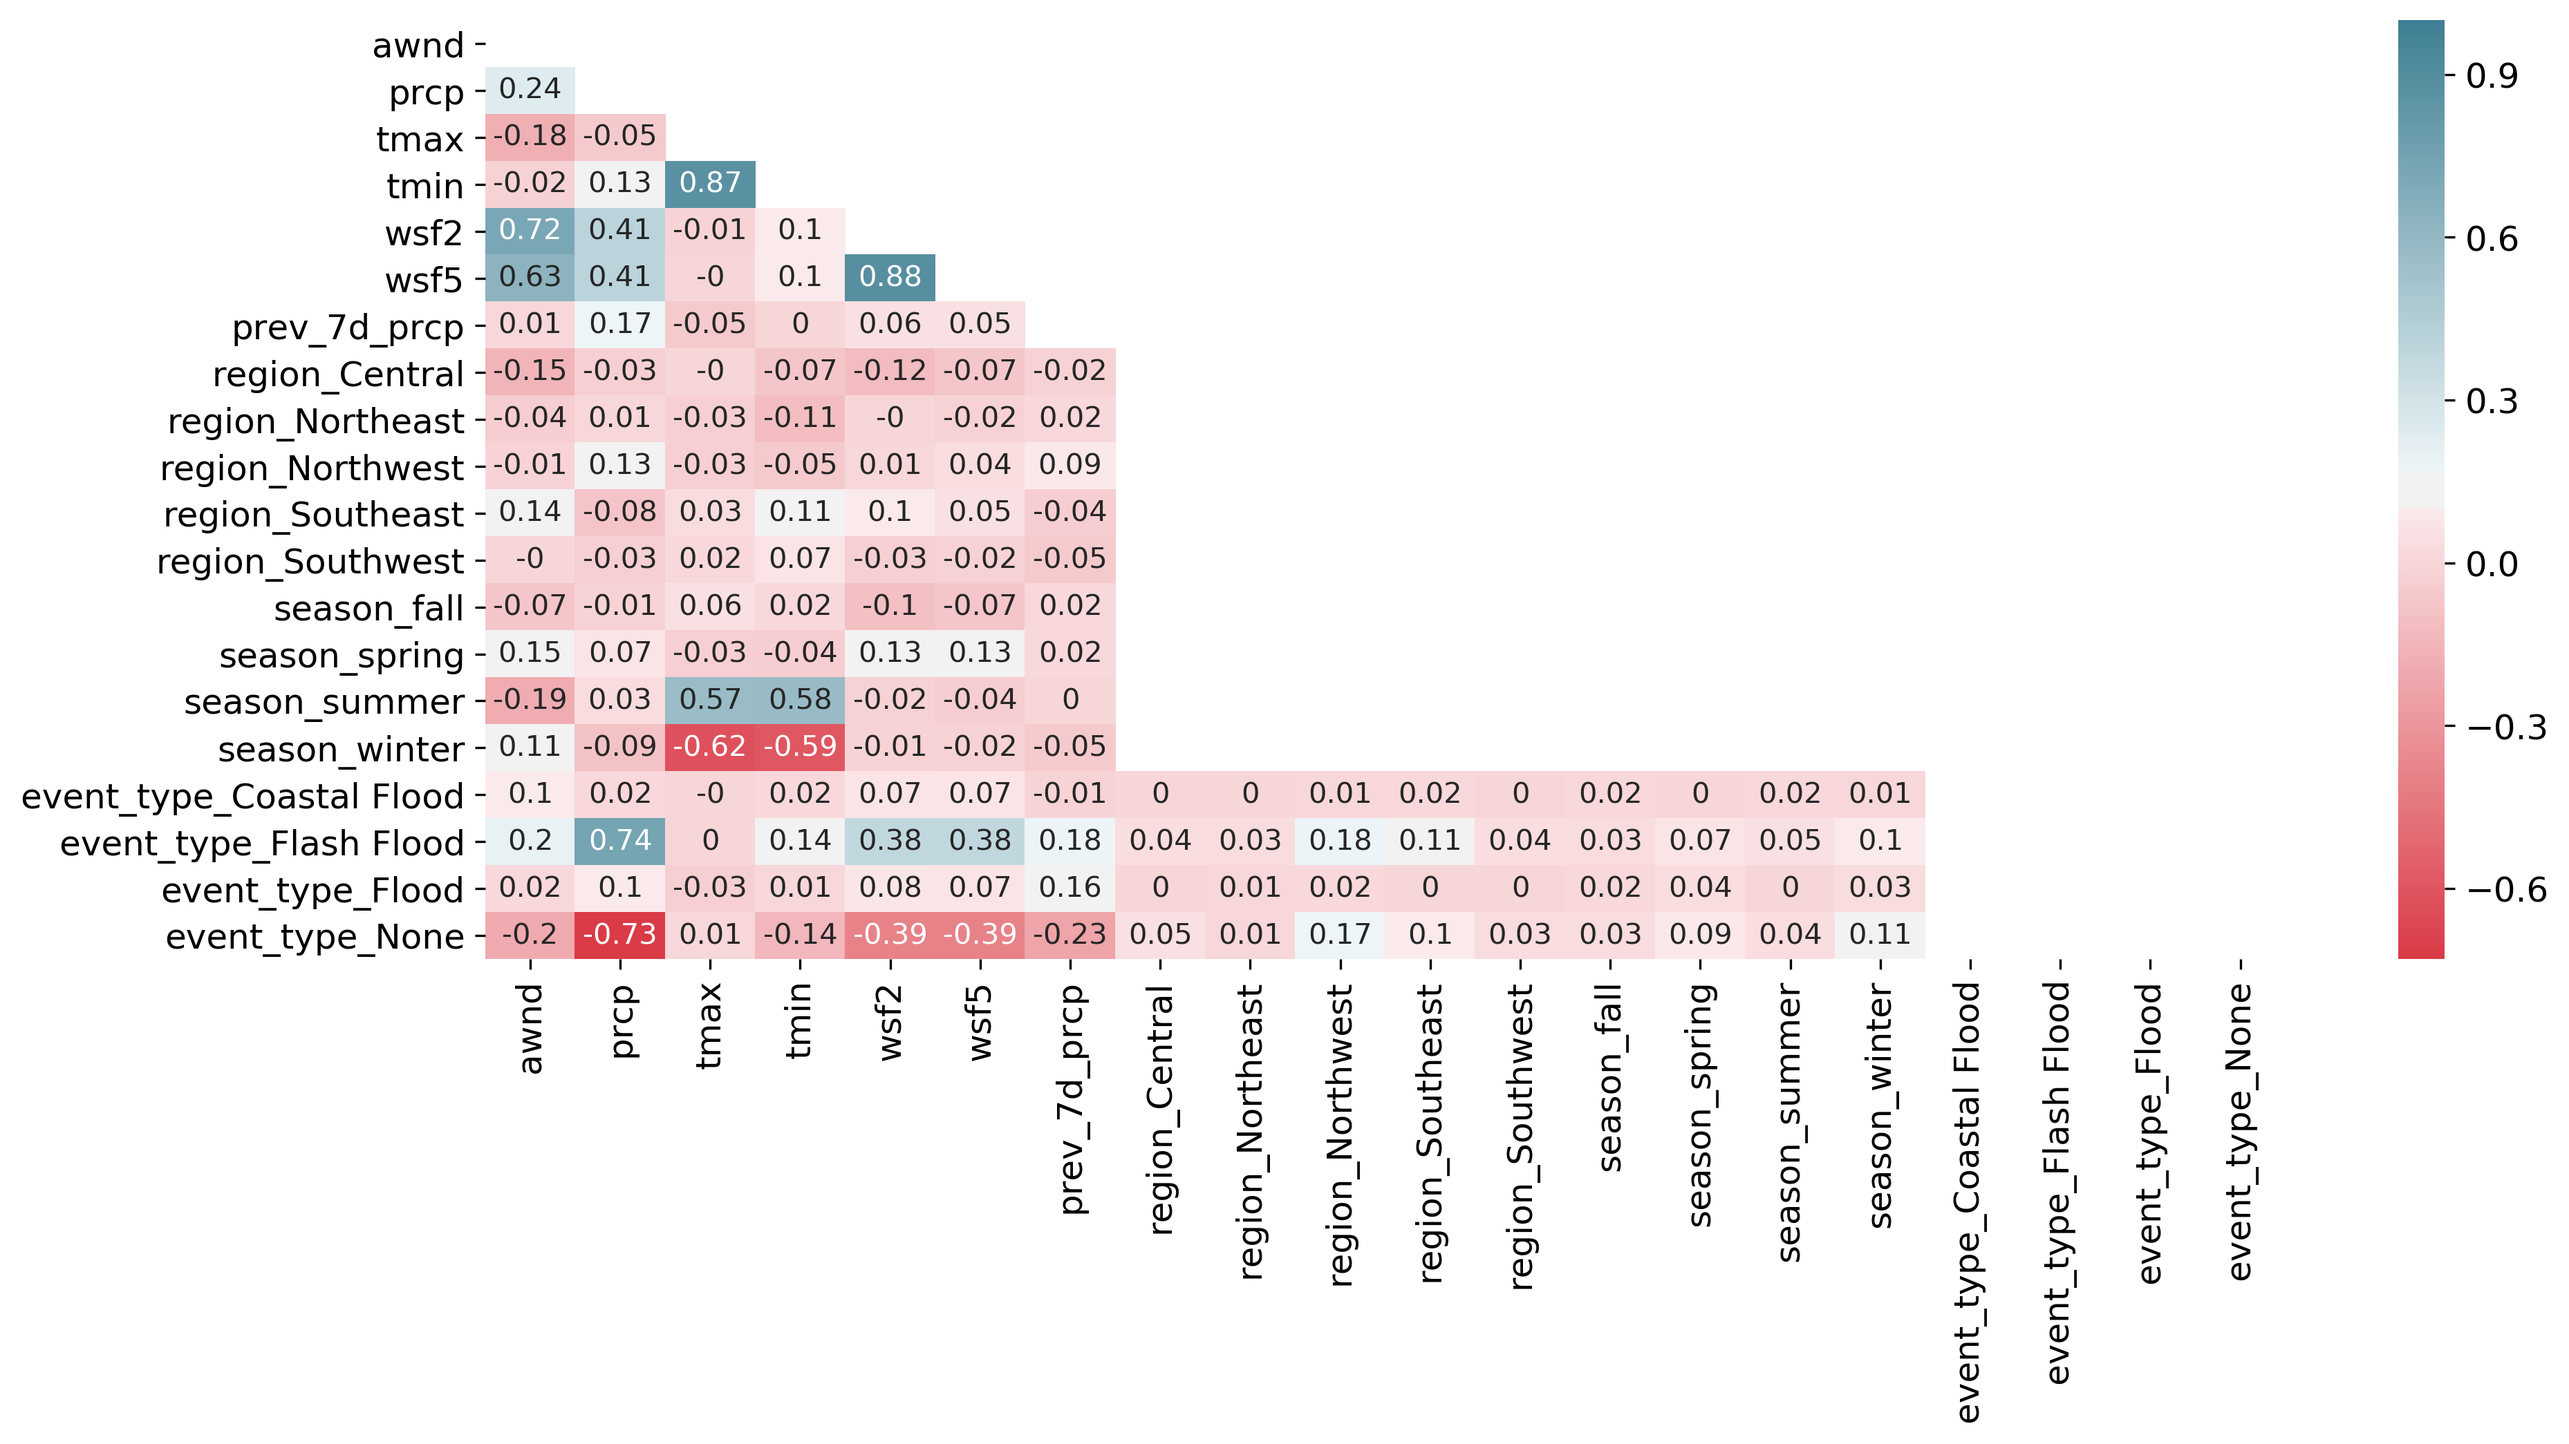
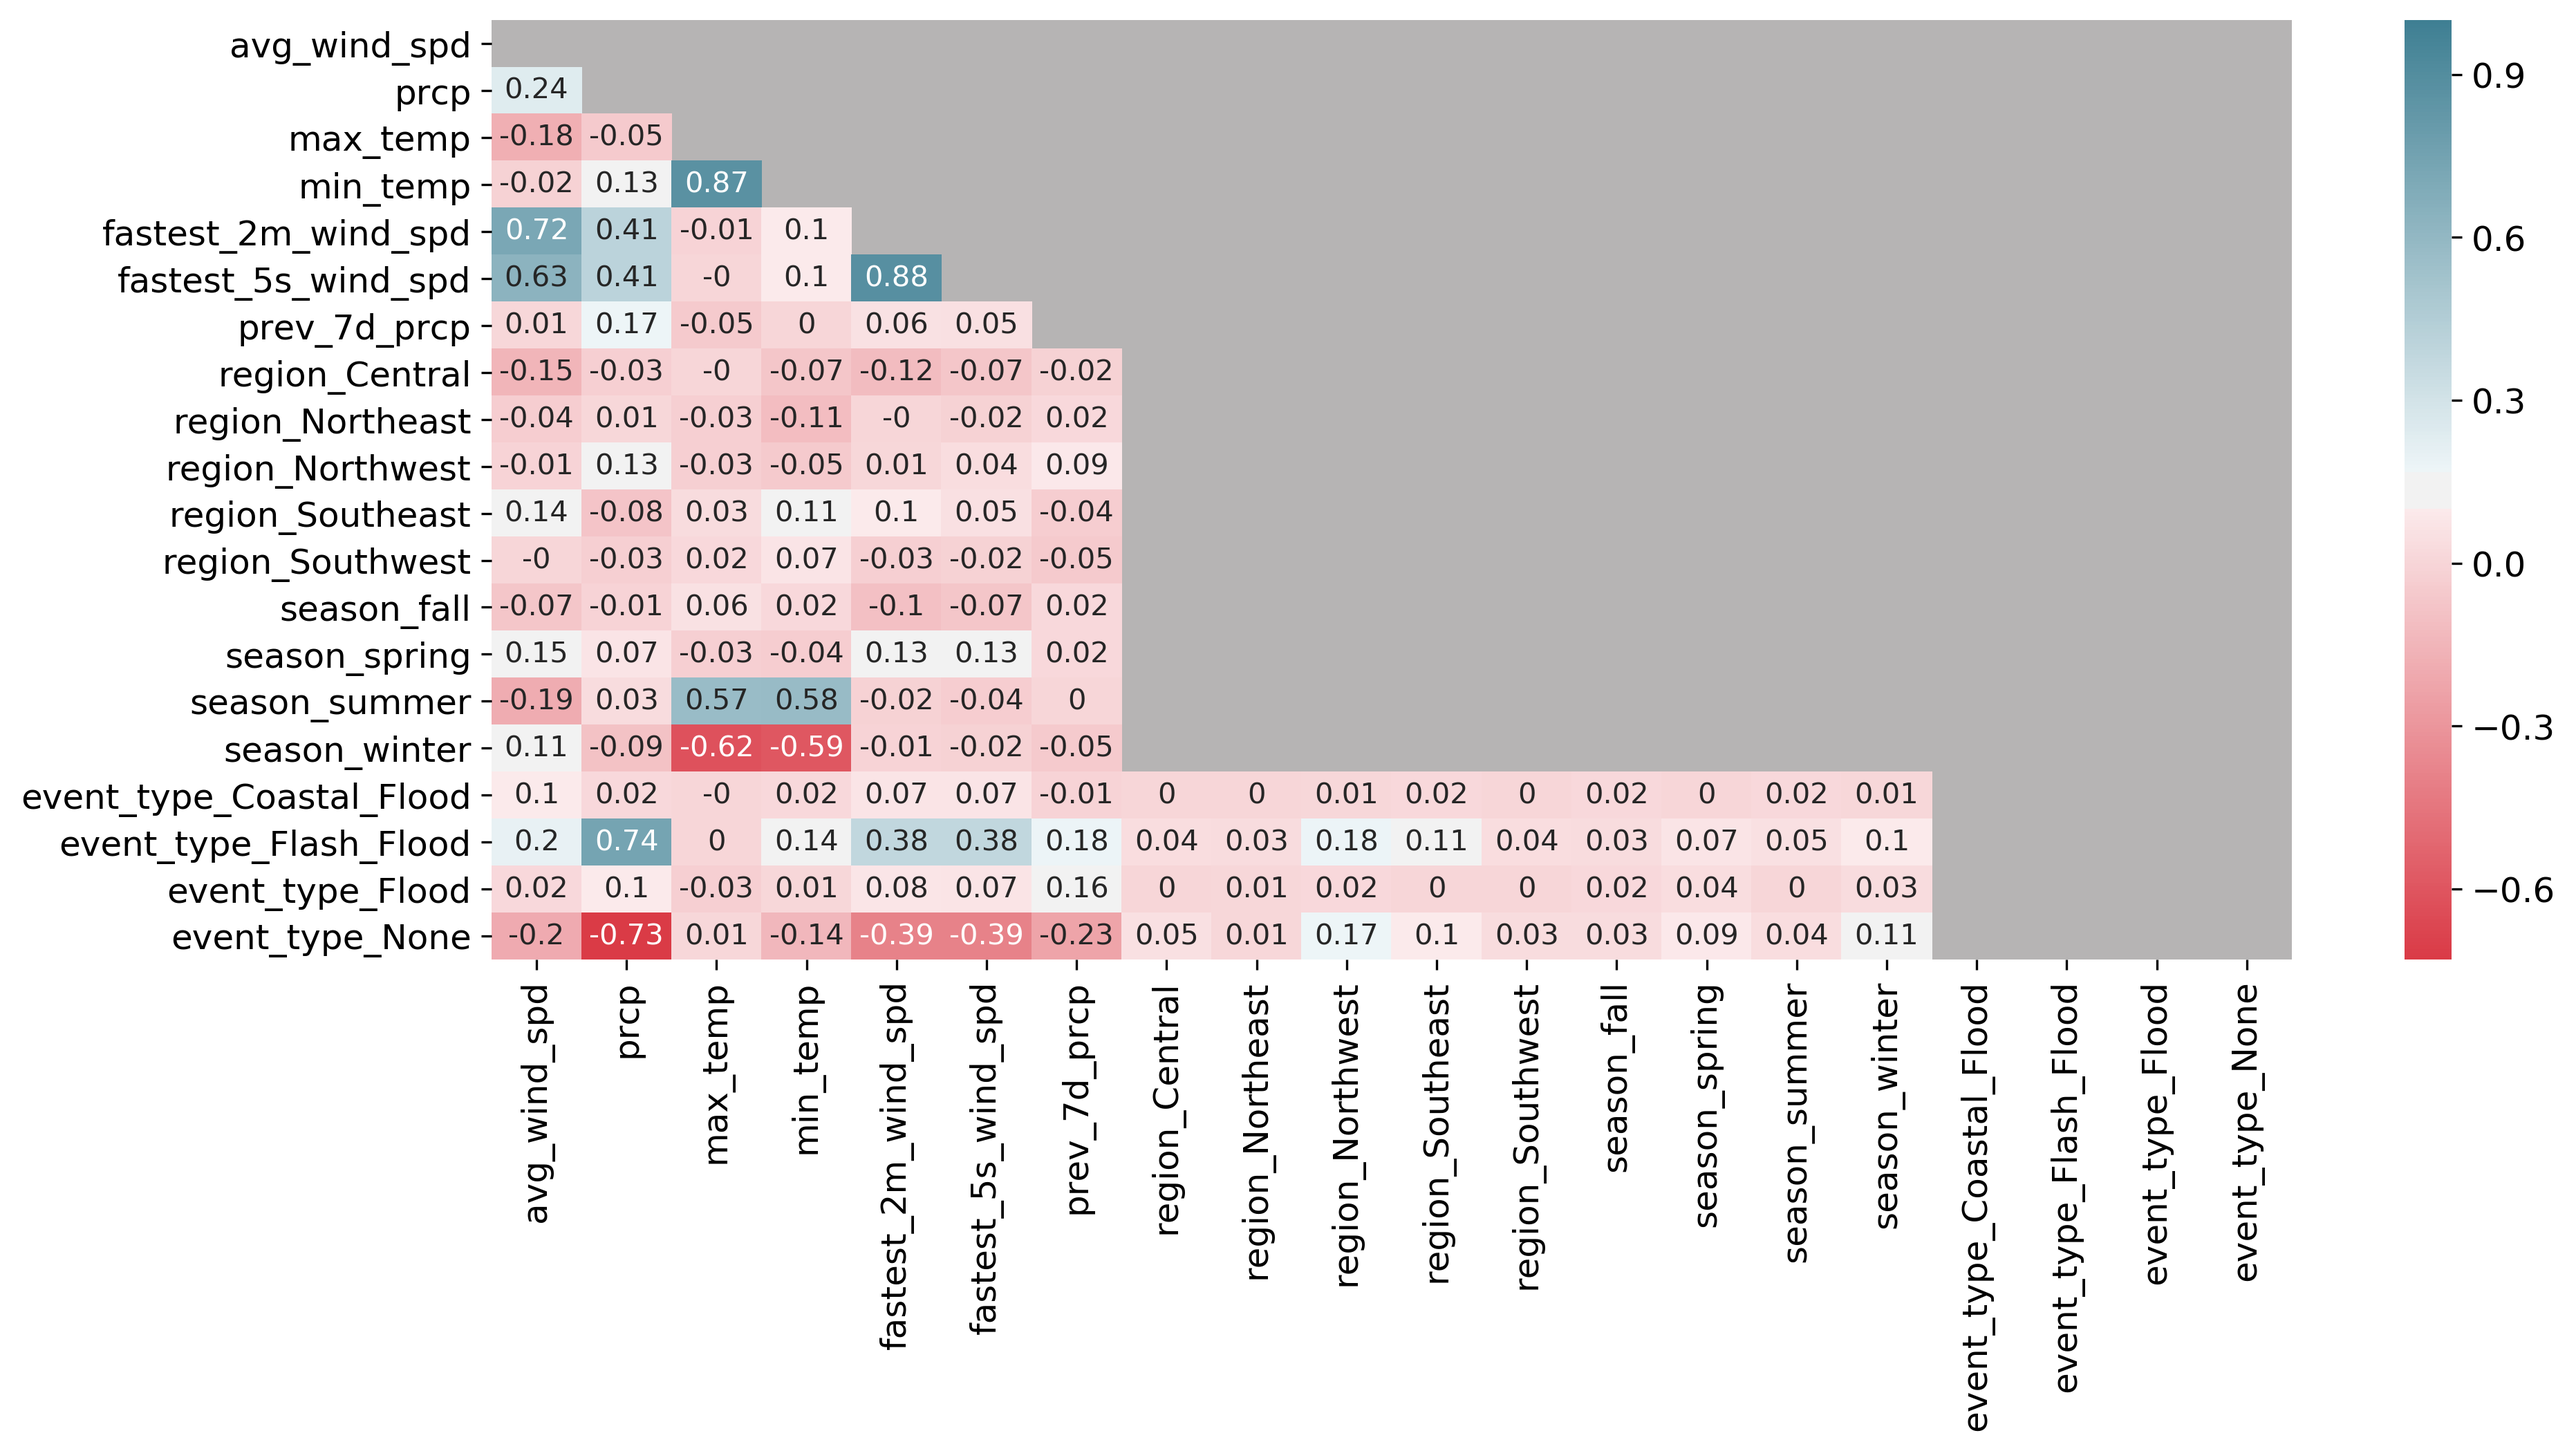
Edited heatmap and added additional description

diff --git a/docs/milestone-report.md b/docs/milestone-report.md
@@ -29,9 +29,9 @@ There were 16,946 rows in the final DataFrame.
 
 ### Meteorological Data
 
-There were 11 variables chosen that were thought to be variables of interest: average daily wind speed, precipitation, average of hourly temperature values, maximum temperature, minimum temperature, direction of fastest 2-minute wind, direction of fastest 5-second wind, fastest 2-minute wind speed, and fastest 5-second wind speed. The initial dataset had 214,708 rows.
+There were 11 variables chosen that were thought to be variables of interest: average daily wind speed (`avg_wind_spd`), precipitation (`precip`), maximum temperature (`max_temp`), minimum temperature (`min_temp`), fastest 2-minute wind speed (`fastest_2m_wind_spd`), and fastest 5-second wind speed (`fastest_5s_wind_spd`). The initial dataset had 214,708 rows.
 
-A new DataFrame was created with name, latitude, and longitude from the original DataFrame, and duplicates were dropped. Using multi-processing (`pandarallel`), the coordinates2politics API was used to query for each parish based on the coordinates of each station. This DataFrame was merged with the original DataFrame, and the station and elevation columns were dropped.
+A new DataFrame was created with name, latitude, and longitude from the original DataFrame, and duplicates were dropped. Using multi-processing (`pandarallel` library), the coordinates2politics API was used to query for each parish based on the coordinates of each station. This DataFrame was merged with the original DataFrame, and the station and elevation columns were dropped.
 
 The station data was aggregated to represent the parish in its entirety by taking the mean of all data points for stations within each station for each date. This resulted in 162,229 rows. This DataFrame was merged with the storm events DataFrame.
 
@@ -63,7 +63,7 @@ Wind speed is another interesting feature to consider (Figure 5). Coastal flood 
 ![wind distribution](img/wind.png)
 **Figure 5**. Distribution of wind speed by event.
 
-There different methods were used to find correlation coefficients depending on the variable types being compared (Figure 8). Pearson's correlation was used for continuous vs. continuous variables [-1, 1]. Point biserial correlation was used for categorical vs. continuous variables [-1, 1]. Cramer's V was used for categorical vs. categorical variables [0, 1].
+There different methods were used to find correlation coefficients depending on the variable types being compared (Figure 8). Pearson's correlation was used for continuous vs. continuous variables [-1, 1]. Point biserial correlation was used for categorical vs. continuous variables [-1, 1]. Cramer's V was used for categorical vs. categorical variables [0, 1]. The grey area indicates relationships that are with themselves (e.g., avg_wind_spd vs. avg_wind_spd, etc.) or relationships that are nonsensical (e.g., region vs. season, etc.).
 
 ![correlation matrix](img/corr_matrix.png)
 **Figure 6**. Correlation matrix for all features.
